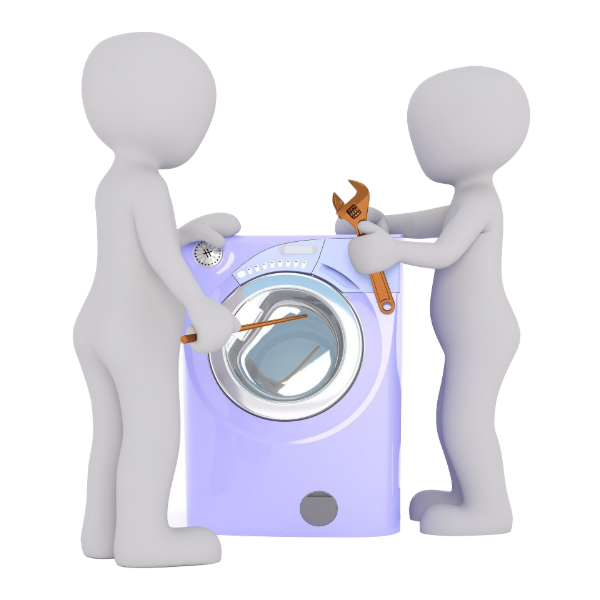
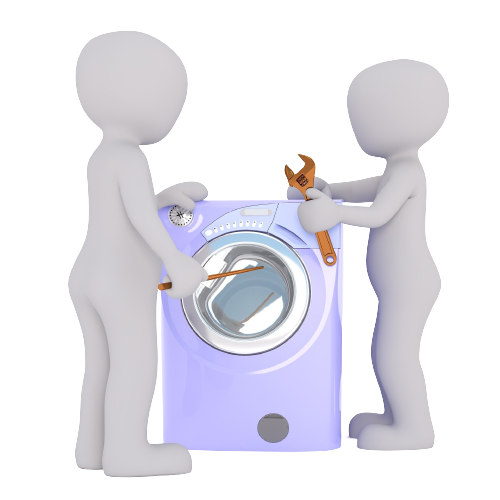
deleted unnecessary photos

diff --git a/src/components/invoices/EditInvoice.js b/src/components/invoices/EditInvoice.js
@@ -1,6 +1,6 @@
 import React, { useState, useEffect, useRef } from "react"
 import { useNavigate, Link, useParams } from "react-router-dom"
-import { editInvoice, getAllInvoices, getAllInvoicesById } from "./../../modules/InvoiceManager"
+import { editInvoice, getAllInvoicesById } from "./../../modules/InvoiceManager"
 import { getAllTypes } from "./../../modules/TypeManager"
 import { getAllProvidersByType } from "./../../modules/ProviderManager"
 import { AddType } from "./../types/CreateType"
@@ -14,6 +14,8 @@ export const EditInvoice = () => {
     const sessionUserId = sessionUser.id;
 
     const navigate = useNavigate();
+    const [isLoading, setIsLoading] = useState(false);
+    const {invoiceId} = useParams();
 
     const [types, setTypes] = useState([]);
     const [sortedTypes, setSortedTypes] = useState([]);
@@ -21,7 +23,6 @@ export const EditInvoice = () => {
     const [providers, setProviders] = useState([]);
     const [sortedProviders, setSortedProviders] = useState({});
 
-    //Sets state for type object 
     const [typeObject, setTypeObject] = useState("");
 
     const [invoice, setInvoice] = useState({
@@ -73,21 +74,15 @@ export const EditInvoice = () => {
             (invoice.costMisc === "") ||
             (invoice.costTax === "") ||
             (calculatedTotal === null) ||
-            (invoice.typeId === "") ||
-            (invoice.providerId === "")) {
-                // fieldsDialog.current.showModal()
-                window.alert("You must fill in all required fields")
+            (invoice.typeId === 0) ||
+            (invoice.providerId === 0)) {
+                fieldsDialog.current.showModal()
         } else {
             editInvoice(invoice)
                 .then(() => navigate("/Invoices"))
         }
     };
 
-    const [isLoading, setIsLoading] = useState(false);
-    const {invoiceId} = useParams();
-    
-   
-    
     
     //Sets invoices on load
     useEffect(() => {
@@ -140,8 +135,7 @@ export const EditInvoice = () => {
     // Checks to make sure a provider is selected before routing to edit form
     const editThisInvoice = () => {
         if (invoice.providerId === "") {
-            // providerDialog.current.showModal()
-            window.alert("Select from the menu before clicking edit")
+            providerDialog.current.showModal()
         } else {
             navigate(`/ServiceProviders/${invoice.providerId}/Edit`)
         }
@@ -150,8 +144,7 @@ export const EditInvoice = () => {
     // Checks to make sure a type is selected before routing to edit popup
     const editThisType = () => {
         if (invoice.typeId === "") {
-            // providerDialog.current.showModal()
-            window.alert("Select from the menu before clicking edit")
+            providerDialog.current.showModal()
         } else {
             setEditTypePopup(true)
         }
@@ -164,13 +157,13 @@ export const EditInvoice = () => {
     const [editTypePopup, setEditTypePopup] = useState(false)
 
 
-    // const providerDialog = useRef()
-    // const fieldsDialog = useRef()
+    const providerDialog = useRef()
+    const fieldsDialog = useRef()
 
 
     return (
         <>
-            {/* <dialog className="dialog" ref={providerDialog}>
+            <dialog className="dialog" ref={providerDialog}>
                 <div className="dialog__login">Select from the menu before clicking Edit.</div>
                 <button className="dialog__btn" onClick={e => providerDialog.current.close()}>Close</button>
             </dialog>
@@ -178,7 +171,7 @@ export const EditInvoice = () => {
             <dialog className="dialog" ref={fieldsDialog}>
                 <div className="dialog__login">Fill in all required fields.</div>
                 <button className="dialog__btn" onClick={e => fieldsDialog.current.close()}>Close</button>
-            </dialog> */}
+            </dialog>
 
             <h2 className="page__title"> Editing Invoice</h2>
             <div className="page__grid">
@@ -361,6 +354,7 @@ export const EditInvoice = () => {
                             </label>
                             <input 
                                 type="number" 
+                                step="0.01"
                                 className="form__input__input__calc" 
                                 id="costService"
                                 placeholder="$0.00" 

diff --git a/src/components/invoices/CreateInvoice.js b/src/components/invoices/CreateInvoice.js
@@ -1,12 +1,11 @@
 import React, { useState, useEffect, useRef } from "react"
 import { useNavigate, Link } from "react-router-dom"
-import { addInvoice, getAllInvoices } from "./../../modules/InvoiceManager"
+import { addInvoice } from "./../../modules/InvoiceManager"
 import { getAllTypes } from "./../../modules/TypeManager"
 import { getAllProvidersByType } from "./../../modules/ProviderManager"
 import { AddType } from "./../types/CreateType"
 import { EditType } from "./../types/EditType"
 import "./CreateInvoice.css"
-// import "./../HomeGroan.css"
 
 export const CreateInvoice = () => {
     //Gets logged-in user info 
@@ -21,7 +20,6 @@ export const CreateInvoice = () => {
     const [providers, setProviders] = useState([]);
     const [sortedProviders, setSortedProviders] = useState([]);
 
-    //Sets state for type object 
     const [typeObject, setTypeObject] = useState("");
 
     const [invoice, setInvoice] = useState({
@@ -73,7 +71,9 @@ export const CreateInvoice = () => {
             (invoice.costTax === "") ||
             (calculatedTotal === null) ||
             (invoice.typeId === "") ||
-            (invoice.providerId === "")) {
+            (invoice.typeId === 0) ||
+            (invoice.providerId === "") ||
+            (invoice.providerId === 0)) {
                 fieldsDialog.current.showModal()
         } else {
             addInvoice(invoice)
@@ -112,10 +112,10 @@ export const CreateInvoice = () => {
 
    //Adds costs and displays dynamically in the Total Cost input field
     const calcCosts = () => {
-        const total = (invoice.costService *100) + (invoice.costParts *100 + (invoice.costLabor *100) + (invoice.costMisc *100) + (invoice.costTax *100))
+        const total = (invoice.costService *100) + (invoice.costParts *100) + (invoice.costLabor *100) + (invoice.costMisc *100) + (invoice.costTax *100)
         invoice.costTotal = total/100
         const formattedTotal = total.toFixed(2)
-        return formattedTotal /100
+        return formattedTotal/100
     }
     const calculatedTotal = calcCosts()
 
@@ -344,6 +344,7 @@ export const CreateInvoice = () => {
                             </label>
                             <input 
                                 type="number" 
+                                step="0.01"
                                 className="form__input__input__calc" 
                                 id="costService"
                                 placeholder="$0.00" 

diff --git a/src/ApplicationViews.js b/src/ApplicationViews.js
@@ -38,9 +38,9 @@ export const ApplicationViews = ({ isAuthenticated, setIsAuthenticated }) => {
             } />
 
             <Route exact path="/CreateInvoice" element={
-                // <PrivateRoute>
+                <PrivateRoute>
                     <CreateInvoice />
-                // </PrivateRoute>
+                </PrivateRoute>
             } />
             <Route exact path="/Invoices" element={
                 <PrivateRoute>
@@ -65,9 +65,9 @@ export const ApplicationViews = ({ isAuthenticated, setIsAuthenticated }) => {
                 </PrivateRoute>
             } />
             <Route exact path="/ServiceProviders/:providerId" element={
-                // <PrivateRoute>
+                <PrivateRoute>
                     <ServiceProviderDetail />
-                // </PrivateRoute>  
+                </PrivateRoute>  
             } />
             <Route exact path="/AddServiceProvider" element={
                 <PrivateRoute>
@@ -75,9 +75,9 @@ export const ApplicationViews = ({ isAuthenticated, setIsAuthenticated }) => {
                 </PrivateRoute>
             } />
             <Route exact path="/ServiceProviders/:providerId/Edit" element={
-                // <PrivateRoute>
+                <PrivateRoute>
                     <EditServiceProvider />
-                // </PrivateRoute>
+                </PrivateRoute>
             } />
 
             <Route exact path="/Search" element={

diff --git a/src/components/search/Search.js b/src/components/search/Search.js
@@ -1,7 +1,7 @@
 import React, { useState } from "react"
 import { useNavigate } from "react-router-dom"
-import { getAllProviders } from "./../../modules/TypeManager"
-import { getAllInvoices } from "./../../modules/InvoiceManager"
+// import { getAllProviders } from "./../../modules/TypeManager"
+// import { getAllInvoices } from "./../../modules/InvoiceManager"
 import "./Search.css"
 
 export const Search = () => {
@@ -38,7 +38,7 @@ export const Search = () => {
                         <img 
                             className="main__image" 
                             src={'./../../images/laundry.png'} 
-                            alt="Computer-generated figure holding a large wrench" />
+                            alt="Computer-generated figures fix a washing machine" />
                     </picture>
             </div>
             <div className="search__menus">

diff --git a/src/components/providers/EditServiceProvider.js b/src/components/providers/EditServiceProvider.js
@@ -58,19 +58,7 @@ export const EditServiceProvider = () => {
                 .then(() => navigate(-1)
         )}
     }
-
-
-
-
-    
-
-
-
-
-
-
-
-
+ 
 
     //Sets state of 'Add new type' popup to false on load
     const [typePopup, setTypePopup] = useState(false)
@@ -92,10 +80,6 @@ export const EditServiceProvider = () => {
     const [isLoading, setIsLoading] = useState(false);
     const {providerId} = useParams();
     const navigate = useNavigate();
-
-    
-    
-    
 
 
     // Sets states dropdown on load
@@ -123,8 +107,6 @@ export const EditServiceProvider = () => {
             const tempTypes = types.sort((a,b) => (a.name.toLowerCase() > b.name.toLowerCase()) ? 1 : -1)
             setSortedTypes(tempTypes)}
     }, [types])
-
-
 
 
 

diff --git a/src/components/invoices/InvoicesCard.js b/src/components/invoices/InvoicesCard.js
@@ -104,11 +104,6 @@ export const InvoicesCard = ({ invoice, handleDeleteInvoice, handleEditInvoice }
                     onClick={() => handleDeleteInvoice(invoice.id)}>
                     Delete
                 </button>
-                {/* <button
-                    id="invoice__details__button"
-                    onClick={() => handleDeleteInvoice(invoice.id)}>
-                    Details
-                </button> */}
                 <button
                     id="invoice__edit__button"
                     onClick={() => {navigate(`/Invoices/${invoice.id}/Edit`)}} >

diff --git a/src/components/invoices/InvoicesList.js b/src/components/invoices/InvoicesList.js
@@ -1,5 +1,5 @@
 import React, { useState, useEffect } from "react"
-import { getAllInvoices, deleteInvoice, editInvoice } from "./../../modules/InvoiceManager"
+import { getAllInvoices, deleteInvoice } from "./../../modules/InvoiceManager"
 import { InvoicesCard } from "./InvoicesCard"
 import "./InvoicesList.css"
 
@@ -7,7 +7,6 @@ export const InvoicesList = () => {
     //Gets current user ID
     const sessionUser = JSON.parse(window.sessionStorage.getItem("homegroan_user"))
     const sessionUserId = sessionUser.id
-
 
     const [invoices, setInvoices] = useState([])
 
